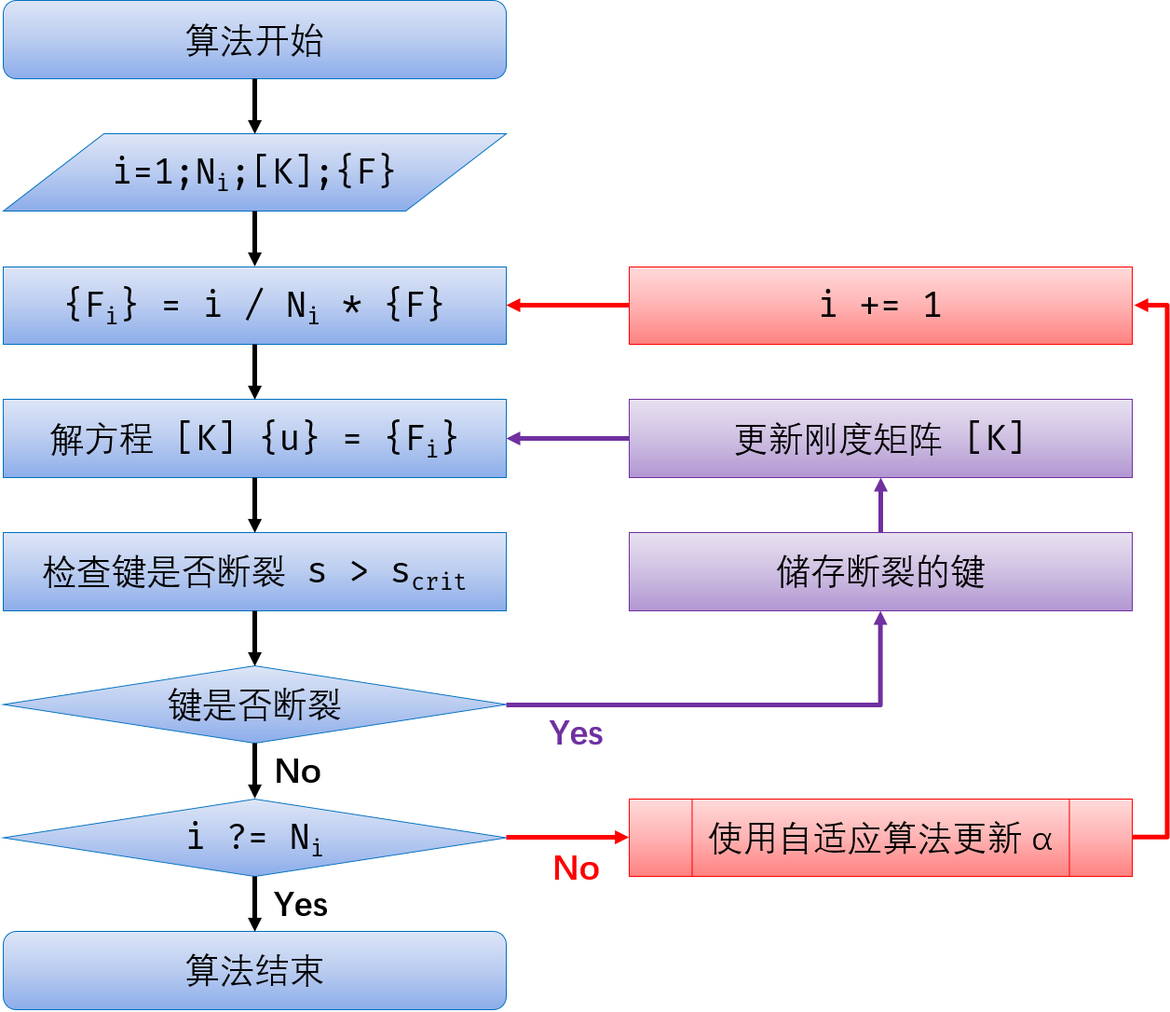
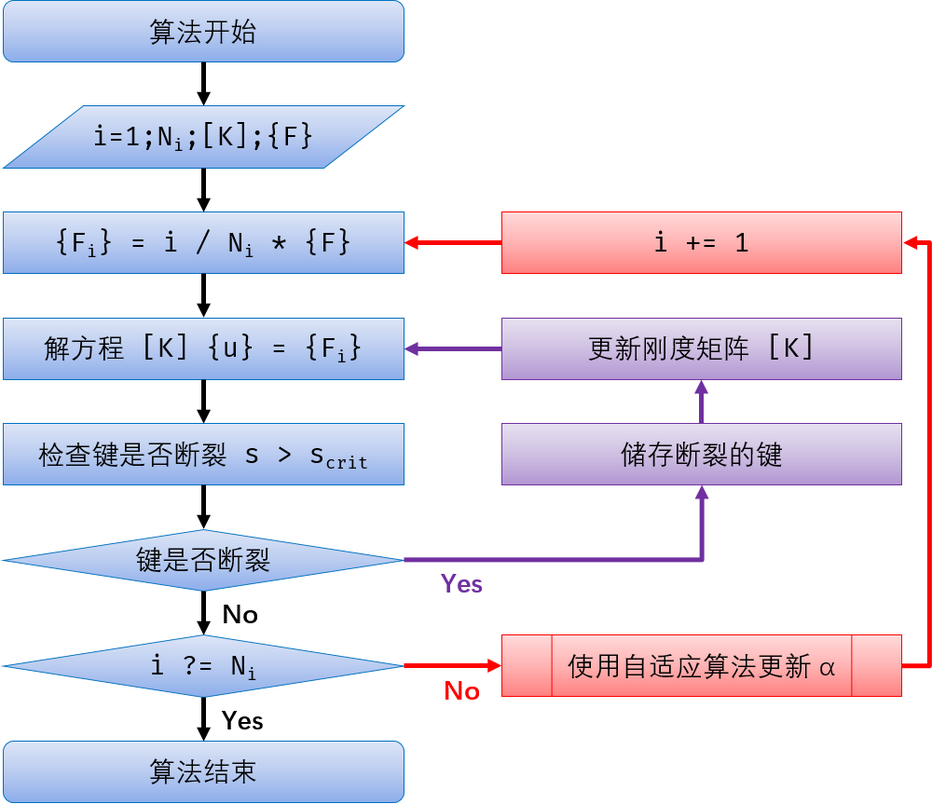
update note03
* resize figure
* fix typo

diff --git a/docs/文章阅读记录-2014-模拟具有预置裂纹的裂纹扩展.html b/docs/文章阅读记录-2014-模拟具有预置裂纹的裂纹扩展.html
@@ -157,10 +157,10 @@
 <h3 id="%E9%94%AE%E6%96%AD%E8%A3%82%E4%B8%8E%E8%80%97%E6%95%A3%E8%83%BD">键断裂与耗散能</h3>
 <p>首先需要定义什么情况下认为键发生了断裂。我们假设我们处理的是一个在某一个形变范围内是理想线弹性的简化模型。即在形变在区间 <span class="katex"><span class="katex-mathml"><math><semantics><mrow><mo>[</mo><mn>0</mn><mo separator="true">,</mo><msub><mi>s</mi><mrow><mi>c</mi><mi>r</mi><mi>i</mi><mi>t</mi></mrow></msub><mo>]</mo></mrow><annotation encoding="application/x-tex">[0, s_{crit}]</annotation></semantics></math></span><span class="katex-html" aria-hidden="true"><span class="base"><span class="strut" style="height:1em;vertical-align:-0.25em;"></span><span class="mopen">[</span><span class="mord">0</span><span class="mpunct">,</span><span class="mspace" style="margin-right:0.16666666666666666em;"></span><span class="mord"><span class="mord mathdefault">s</span><span class="msupsub"><span class="vlist-t vlist-t2"><span class="vlist-r"><span class="vlist" style="height:0.31166399999999994em;"><span style="top:-2.5500000000000003em;margin-left:0em;margin-right:0.05em;"><span class="pstrut" style="height:2.7em;"></span><span class="sizing reset-size6 size3 mtight"><span class="mord mtight"><span class="mord mathdefault mtight">c</span><span class="mord mathdefault mtight" style="margin-right:0.02778em;">r</span><span class="mord mathdefault mtight">i</span><span class="mord mathdefault mtight">t</span></span></span></span></span><span class="vlist-s"></span></span><span class="vlist-r"><span class="vlist" style="height:0.15em;"><span></span></span></span></span></span></span><span class="mclose">]</span></span></span></span> 内部时，我们把键当做一个理想的弹簧；而一旦形变超出了这个区间，我们认为这根键完全断掉，不再起任何作用，而且这个过程是不可逆的。</p>
 <p>即我们定义键的伸长率 <span class="katex"><span class="katex-mathml"><math><semantics><mrow><mi>s</mi><mo>=</mo><mi mathvariant="normal">∥</mi><munder accentunder="true"><mi>η</mi><mo stretchy="true">‾</mo></munder><mi mathvariant="normal">∥</mi><mi mathvariant="normal">/</mi><mi mathvariant="normal">∥</mi><munder accentunder="true"><mi>ξ</mi><mo stretchy="true">‾</mo></munder><mi mathvariant="normal">∥</mi></mrow><annotation encoding="application/x-tex">s = \|\underline{\eta}\|/\|\underline{\xi}\|</annotation></semantics></math></span><span class="katex-html" aria-hidden="true"><span class="base"><span class="strut" style="height:0.43056em;vertical-align:0em;"></span><span class="mord mathdefault">s</span><span class="mspace" style="margin-right:0.2777777777777778em;"></span><span class="mrel">=</span><span class="mspace" style="margin-right:0.2777777777777778em;"></span></span><span class="base"><span class="strut" style="height:1.14444em;vertical-align:-0.39444em;"></span><span class="mord">∥</span><span class="mord underline"><span class="vlist-t vlist-t2"><span class="vlist-r"><span class="vlist" style="height:0.43056em;"><span style="top:-2.64556em;"><span class="pstrut" style="height:3em;"></span><span class="underline-line" style="border-bottom-width:0.04em;"></span></span><span style="top:-3em;"><span class="pstrut" style="height:3em;"></span><span class="mord"><span class="mord mathdefault" style="margin-right:0.03588em;">η</span></span></span></span><span class="vlist-s"></span></span><span class="vlist-r"><span class="vlist" style="height:0.39443999999999996em;"><span></span></span></span></span></span><span class="mord">∥</span><span class="mord">/</span><span class="mord">∥</span><span class="mord underline"><span class="vlist-t vlist-t2"><span class="vlist-r"><span class="vlist" style="height:0.6944399999999998em;"><span style="top:-2.64556em;"><span class="pstrut" style="height:3em;"></span><span class="underline-line" style="border-bottom-width:0.04em;"></span></span><span style="top:-3em;"><span class="pstrut" style="height:3em;"></span><span class="mord"><span class="mord mathdefault" style="margin-right:0.04601em;">ξ</span></span></span></span><span class="vlist-s"></span></span><span class="vlist-r"><span class="vlist" style="height:0.39444em;"><span></span></span></span></span></span><span class="mord">∥</span></span></span></span>，当键受拉的时候，其伸长率为正值。那么结合我们的本构 <span class="katex"><span class="katex-mathml"><math><semantics><mrow><munder accentunder="true"><mi>f</mi><mo stretchy="true">‾</mo></munder><mo>(</mo><munder accentunder="true"><mi>p</mi><mo stretchy="true">‾</mo></munder><mo>→</mo><munder accentunder="true"><mi>x</mi><mo stretchy="true">‾</mo></munder><mo>)</mo><mo>=</mo><mi>c</mi><mo>(</mo><mi mathvariant="normal">∥</mi><munder accentunder="true"><mi>ξ</mi><mo stretchy="true">‾</mo></munder><mi mathvariant="normal">∥</mi><mo>)</mo><mo>⋅</mo><munder accentunder="true"><mi>η</mi><mo stretchy="true">‾</mo></munder></mrow><annotation encoding="application/x-tex">\underline{f}(\underline{p} \rightarrow \underline{x}) = c(\|\underline{\xi}\|)\cdot\underline{\eta}</annotation></semantics></math></span><span class="katex-html" aria-hidden="true"><span class="base"><span class="strut" style="height:1.14444em;vertical-align:-0.39444em;"></span><span class="mord underline"><span class="vlist-t vlist-t2"><span class="vlist-r"><span class="vlist" style="height:0.6944399999999998em;"><span style="top:-2.64556em;"><span class="pstrut" style="height:3em;"></span><span class="underline-line" style="border-bottom-width:0.04em;"></span></span><span style="top:-3em;"><span class="pstrut" style="height:3em;"></span><span class="mord"><span class="mord mathdefault" style="margin-right:0.10764em;">f</span></span></span></span><span class="vlist-s"></span></span><span class="vlist-r"><span class="vlist" style="height:0.39444em;"><span></span></span></span></span></span><span class="mopen">(</span><span class="mord underline"><span class="vlist-t vlist-t2"><span class="vlist-r"><span class="vlist" style="height:0.43056em;"><span style="top:-2.64556em;"><span class="pstrut" style="height:3em;"></span><span class="underline-line" style="border-bottom-width:0.04em;"></span></span><span style="top:-3em;"><span class="pstrut" style="height:3em;"></span><span class="mord"><span class="mord mathdefault">p</span></span></span></span><span class="vlist-s"></span></span><span class="vlist-r"><span class="vlist" style="height:0.39443999999999996em;"><span></span></span></span></span></span><span class="mspace" style="margin-right:0.2777777777777778em;"></span><span class="mrel">→</span><span class="mspace" style="margin-right:0.2777777777777778em;"></span></span><span class="base"><span class="strut" style="height:1em;vertical-align:-0.25em;"></span><span class="mord underline"><span class="vlist-t vlist-t2"><span class="vlist-r"><span class="vlist" style="height:0.43056000000000005em;"><span style="top:-2.84em;"><span class="pstrut" style="height:3em;"></span><span class="underline-line" style="border-bottom-width:0.04em;"></span></span><span style="top:-3em;"><span class="pstrut" style="height:3em;"></span><span class="mord"><span class="mord mathdefault">x</span></span></span></span><span class="vlist-s"></span></span><span class="vlist-r"><span class="vlist" style="height:0.19999999999999996em;"><span></span></span></span></span></span><span class="mclose">)</span><span class="mspace" style="margin-right:0.2777777777777778em;"></span><span class="mrel">=</span><span class="mspace" style="margin-right:0.2777777777777778em;"></span></span><span class="base"><span class="strut" style="height:1.14444em;vertical-align:-0.39444em;"></span><span class="mord mathdefault">c</span><span class="mopen">(</span><span class="mord">∥</span><span class="mord underline"><span class="vlist-t vlist-t2"><span class="vlist-r"><span class="vlist" style="height:0.6944399999999998em;"><span style="top:-2.64556em;"><span class="pstrut" style="height:3em;"></span><span class="underline-line" style="border-bottom-width:0.04em;"></span></span><span style="top:-3em;"><span class="pstrut" style="height:3em;"></span><span class="mord"><span class="mord mathdefault" style="margin-right:0.04601em;">ξ</span></span></span></span><span class="vlist-s"></span></span><span class="vlist-r"><span class="vlist" style="height:0.39444em;"><span></span></span></span></span></span><span class="mord">∥</span><span class="mclose">)</span><span class="mspace" style="margin-right:0.2222222222222222em;"></span><span class="mbin">⋅</span><span class="mspace" style="margin-right:0.2222222222222222em;"></span></span><span class="base"><span class="strut" style="height:0.825em;vertical-align:-0.39443999999999996em;"></span><span class="mord underline"><span class="vlist-t vlist-t2"><span class="vlist-r"><span class="vlist" style="height:0.43056em;"><span style="top:-2.64556em;"><span class="pstrut" style="height:3em;"></span><span class="underline-line" style="border-bottom-width:0.04em;"></span></span><span style="top:-3em;"><span class="pstrut" style="height:3em;"></span><span class="mord"><span class="mord mathdefault" style="margin-right:0.03588em;">η</span></span></span></span><span class="vlist-s"></span></span><span class="vlist-r"><span class="vlist" style="height:0.39443999999999996em;"><span></span></span></span></span></span></span></span></span>，引入微势能 <span class="katex"><span class="katex-mathml"><math><semantics><mrow><mi>w</mi></mrow><annotation encoding="application/x-tex">w</annotation></semantics></math></span><span class="katex-html" aria-hidden="true"><span class="base"><span class="strut" style="height:0.43056em;vertical-align:0em;"></span><span class="mord mathdefault" style="margin-right:0.02691em;">w</span></span></span></span>，即把力表示为微势能对相对位移的导数 <span class="katex"><span class="katex-mathml"><math><semantics><mrow><munder accentunder="true"><mi>f</mi><mo stretchy="true">‾</mo></munder><mo>=</mo><mfrac><mrow><mi mathvariant="normal">∂</mi><mi>w</mi></mrow><mrow><mi mathvariant="normal">∂</mi><munder accentunder="true"><mi>η</mi><mo stretchy="true">‾</mo></munder></mrow></mfrac></mrow><annotation encoding="application/x-tex">\underline{f} = \frac{\partial w}{\partial \underline{\eta}}</annotation></semantics></math></span><span class="katex-html" aria-hidden="true"><span class="base"><span class="strut" style="height:1.0888799999999998em;vertical-align:-0.39444em;"></span><span class="mord underline"><span class="vlist-t vlist-t2"><span class="vlist-r"><span class="vlist" style="height:0.6944399999999998em;"><span style="top:-2.64556em;"><span class="pstrut" style="height:3em;"></span><span class="underline-line" style="border-bottom-width:0.04em;"></span></span><span style="top:-3em;"><span class="pstrut" style="height:3em;"></span><span class="mord"><span class="mord mathdefault" style="margin-right:0.10764em;">f</span></span></span></span><span class="vlist-s"></span></span><span class="vlist-r"><span class="vlist" style="height:0.39444em;"><span></span></span></span></span></span><span class="mspace" style="margin-right:0.2777777777777778em;"></span><span class="mrel">=</span><span class="mspace" style="margin-right:0.2777777777777778em;"></span></span><span class="base"><span class="strut" style="height:1.5327159999999997em;vertical-align:-0.652608em;"></span><span class="mord"><span class="mopen nulldelimiter"></span><span class="mfrac"><span class="vlist-t vlist-t2"><span class="vlist-r"><span class="vlist" style="height:0.8801079999999999em;"><span style="top:-2.6550000000000002em;"><span class="pstrut" style="height:3em;"></span><span class="sizing reset-size6 size3 mtight"><span class="mord mtight"><span class="mord mtight" style="margin-right:0.05556em;">∂</span><span class="mord underline mtight"><span class="vlist-t vlist-t2"><span class="vlist-r"><span class="vlist" style="height:0.43056em;"><span style="top:-2.60956em;"><span class="pstrut" style="height:3em;"></span><span class="underline-line mtight" style="border-bottom-width:0.049em;"></span></span><span style="top:-3em;"><span class="pstrut" style="height:3em;"></span><span class="mord mtight"><span class="mord mathdefault mtight" style="margin-right:0.03588em;">η</span></span></span></span><span class="vlist-s"></span></span><span class="vlist-r"><span class="vlist" style="height:0.43944em;"><span></span></span></span></span></span></span></span></span><span style="top:-3.23em;"><span class="pstrut" style="height:3em;"></span><span class="frac-line" style="border-bottom-width:0.04em;"></span></span><span style="top:-3.394em;"><span class="pstrut" style="height:3em;"></span><span class="sizing reset-size6 size3 mtight"><span class="mord mtight"><span class="mord mtight" style="margin-right:0.05556em;">∂</span><span class="mord mathdefault mtight" style="margin-right:0.02691em;">w</span></span></span></span></span><span class="vlist-s"></span></span><span class="vlist-r"><span class="vlist" style="height:0.652608em;"><span></span></span></span></span></span><span class="mclose nulldelimiter"></span></span></span></span></span>。把上面的公式整理，得到用伸长率来表示微势能的一般式子如下</p>
-<p><span class="katex-display"><span class="katex"><span class="katex-mathml"><math><semantics><mrow><mi>w</mi><mo>=</mo><mo>∫</mo><munder accentunder="true"><mi>f</mi><mo stretchy="true">‾</mo></munder><mrow><mi mathvariant="normal">d</mi><mtext>&NegativeThinSpace;</mtext></mrow><munder accentunder="true"><mi>η</mi><mo stretchy="true">‾</mo></munder><mo>=</mo><mfrac><mn>1</mn><mn>2</mn></mfrac><mi>c</mi><mo>(</mo><mi mathvariant="normal">∥</mi><munder accentunder="true"><mi>ξ</mi><mo stretchy="true">‾</mo></munder><mi mathvariant="normal">∥</mi><mo>)</mo><mo>⋅</mo><msup><munder accentunder="true"><mi>η</mi><mo stretchy="true">‾</mo></munder><mn>2</mn></msup><mo>=</mo><mfrac><mrow><mi>c</mi><mo>(</mo><mi mathvariant="normal">∥</mi><munder accentunder="true"><mi>ξ</mi><mo stretchy="true">‾</mo></munder><mi mathvariant="normal">∥</mi><mo>)</mo></mrow><mn>2</mn></mfrac><mo>⋅</mo><msup><mi>s</mi><mn>2</mn></msup><mo>⋅</mo><msup><munder accentunder="true"><mi>ξ</mi><mo stretchy="true">‾</mo></munder><mn>2</mn></msup></mrow><annotation encoding="application/x-tex">w = \int \underline{f} {\mathrm{d}\!} \underline{\eta}
+<p><span class="katex-display"><span class="katex"><span class="katex-mathml"><math><semantics><mrow><mi>w</mi><mo>=</mo><mo>∫</mo><munder accentunder="true"><mi>f</mi><mo stretchy="true">‾</mo></munder><mrow><mi mathvariant="normal">d</mi><mtext>&NegativeThinSpace;</mtext></mrow><munder accentunder="true"><mi>η</mi><mo stretchy="true">‾</mo></munder><mo>=</mo><mfrac><mn>1</mn><mn>2</mn></mfrac><mi>c</mi><mo>(</mo><mi mathvariant="normal">∥</mi><munder accentunder="true"><mi>ξ</mi><mo stretchy="true">‾</mo></munder><mi mathvariant="normal">∥</mi><mo>)</mo><mo>⋅</mo><msup><munder accentunder="true"><mi>η</mi><mo stretchy="true">‾</mo></munder><mn>2</mn></msup><mo>=</mo><mfrac><mrow><mi>c</mi><mo>(</mo><mi mathvariant="normal">∥</mi><munder accentunder="true"><mi>ξ</mi><mo stretchy="true">‾</mo></munder><mi mathvariant="normal">∥</mi><mo>)</mo></mrow><mn>2</mn></mfrac><mo>⋅</mo><msup><mi>s</mi><mn>2</mn></msup><mo>⋅</mo><mi mathvariant="normal">∥</mi><munder accentunder="true"><mi>ξ</mi><mo stretchy="true">‾</mo></munder><msup><mi mathvariant="normal">∥</mi><mn>2</mn></msup></mrow><annotation encoding="application/x-tex">w = \int \underline{f} {\mathrm{d}\!} \underline{\eta}
   = \frac12 c(\|\underline{\xi}\|)\cdot\underline{\eta}^2
-  = \frac{c(\|\underline{\xi}\|)}{2} \cdot s^2 \cdot\underline{\xi}^2
-</annotation></semantics></math></span><span class="katex-html" aria-hidden="true"><span class="base"><span class="strut" style="height:0.43056em;vertical-align:0em;"></span><span class="mord mathdefault" style="margin-right:0.02691em;">w</span><span class="mspace" style="margin-right:0.2777777777777778em;"></span><span class="mrel">=</span><span class="mspace" style="margin-right:0.2777777777777778em;"></span></span><span class="base"><span class="strut" style="height:2.22225em;vertical-align:-0.86225em;"></span><span class="mop op-symbol large-op" style="margin-right:0.44445em;position:relative;top:-0.0011249999999999316em;">∫</span><span class="mspace" style="margin-right:0.16666666666666666em;"></span><span class="mord underline"><span class="vlist-t vlist-t2"><span class="vlist-r"><span class="vlist" style="height:0.6944399999999998em;"><span style="top:-2.64556em;"><span class="pstrut" style="height:3em;"></span><span class="underline-line" style="border-bottom-width:0.04em;"></span></span><span style="top:-3em;"><span class="pstrut" style="height:3em;"></span><span class="mord"><span class="mord mathdefault" style="margin-right:0.10764em;">f</span></span></span></span><span class="vlist-s"></span></span><span class="vlist-r"><span class="vlist" style="height:0.39444em;"><span></span></span></span></span></span><span class="mord"><span class="mord"><span class="mord mathrm">d</span></span><span class="mspace" style="margin-right:-0.16666666666666666em;"></span></span><span class="mord underline"><span class="vlist-t vlist-t2"><span class="vlist-r"><span class="vlist" style="height:0.43056em;"><span style="top:-2.64556em;"><span class="pstrut" style="height:3em;"></span><span class="underline-line" style="border-bottom-width:0.04em;"></span></span><span style="top:-3em;"><span class="pstrut" style="height:3em;"></span><span class="mord"><span class="mord mathdefault" style="margin-right:0.03588em;">η</span></span></span></span><span class="vlist-s"></span></span><span class="vlist-r"><span class="vlist" style="height:0.39443999999999996em;"><span></span></span></span></span></span><span class="mspace" style="margin-right:0.2777777777777778em;"></span><span class="mrel">=</span><span class="mspace" style="margin-right:0.2777777777777778em;"></span></span><span class="base"><span class="strut" style="height:2.00744em;vertical-align:-0.686em;"></span><span class="mord"><span class="mopen nulldelimiter"></span><span class="mfrac"><span class="vlist-t vlist-t2"><span class="vlist-r"><span class="vlist" style="height:1.32144em;"><span style="top:-2.314em;"><span class="pstrut" style="height:3em;"></span><span class="mord">2</span></span><span style="top:-3.23em;"><span class="pstrut" style="height:3em;"></span><span class="frac-line" style="border-bottom-width:0.04em;"></span></span><span style="top:-3.677em;"><span class="pstrut" style="height:3em;"></span><span class="mord">1</span></span></span><span class="vlist-s"></span></span><span class="vlist-r"><span class="vlist" style="height:0.686em;"><span></span></span></span></span></span><span class="mclose nulldelimiter"></span></span><span class="mord mathdefault">c</span><span class="mopen">(</span><span class="mord">∥</span><span class="mord underline"><span class="vlist-t vlist-t2"><span class="vlist-r"><span class="vlist" style="height:0.6944399999999998em;"><span style="top:-2.64556em;"><span class="pstrut" style="height:3em;"></span><span class="underline-line" style="border-bottom-width:0.04em;"></span></span><span style="top:-3em;"><span class="pstrut" style="height:3em;"></span><span class="mord"><span class="mord mathdefault" style="margin-right:0.04601em;">ξ</span></span></span></span><span class="vlist-s"></span></span><span class="vlist-r"><span class="vlist" style="height:0.39444em;"><span></span></span></span></span></span><span class="mord">∥</span><span class="mclose">)</span><span class="mspace" style="margin-right:0.2222222222222222em;"></span><span class="mbin">⋅</span><span class="mspace" style="margin-right:0.2222222222222222em;"></span></span><span class="base"><span class="strut" style="height:1.2585479999999998em;vertical-align:-0.39443999999999996em;"></span><span class="mord"><span class="mord underline"><span class="vlist-t vlist-t2"><span class="vlist-r"><span class="vlist" style="height:0.43056em;"><span style="top:-2.64556em;"><span class="pstrut" style="height:3em;"></span><span class="underline-line" style="border-bottom-width:0.04em;"></span></span><span style="top:-3em;"><span class="pstrut" style="height:3em;"></span><span class="mord"><span class="mord mathdefault" style="margin-right:0.03588em;">η</span></span></span></span><span class="vlist-s"></span></span><span class="vlist-r"><span class="vlist" style="height:0.39443999999999996em;"><span></span></span></span></span></span><span class="msupsub"><span class="vlist-t"><span class="vlist-r"><span class="vlist" style="height:0.8641079999999999em;"><span style="top:-3.113em;margin-right:0.05em;"><span class="pstrut" style="height:2.7em;"></span><span class="sizing reset-size6 size3 mtight"><span class="mord mtight">2</span></span></span></span></span></span></span></span><span class="mspace" style="margin-right:0.2777777777777778em;"></span><span class="mrel">=</span><span class="mspace" style="margin-right:0.2777777777777778em;"></span></span><span class="base"><span class="strut" style="height:2.22044em;vertical-align:-0.686em;"></span><span class="mord"><span class="mopen nulldelimiter"></span><span class="mfrac"><span class="vlist-t vlist-t2"><span class="vlist-r"><span class="vlist" style="height:1.53444em;"><span style="top:-2.314em;"><span class="pstrut" style="height:3em;"></span><span class="mord"><span class="mord">2</span></span></span><span style="top:-3.23em;"><span class="pstrut" style="height:3em;"></span><span class="frac-line" style="border-bottom-width:0.04em;"></span></span><span style="top:-3.78444em;"><span class="pstrut" style="height:3em;"></span><span class="mord"><span class="mord mathdefault">c</span><span class="mopen">(</span><span class="mord">∥</span><span class="mord underline"><span class="vlist-t vlist-t2"><span class="vlist-r"><span class="vlist" style="height:0.6944399999999998em;"><span style="top:-2.64556em;"><span class="pstrut" style="height:3em;"></span><span class="underline-line" style="border-bottom-width:0.04em;"></span></span><span style="top:-3em;"><span class="pstrut" style="height:3em;"></span><span class="mord"><span class="mord mathdefault" style="margin-right:0.04601em;">ξ</span></span></span></span><span class="vlist-s"></span></span><span class="vlist-r"><span class="vlist" style="height:0.39444em;"><span></span></span></span></span></span><span class="mord">∥</span><span class="mclose">)</span></span></span></span><span class="vlist-s"></span></span><span class="vlist-r"><span class="vlist" style="height:0.686em;"><span></span></span></span></span></span><span class="mclose nulldelimiter"></span></span><span class="mspace" style="margin-right:0.2222222222222222em;"></span><span class="mbin">⋅</span><span class="mspace" style="margin-right:0.2222222222222222em;"></span></span><span class="base"><span class="strut" style="height:0.8641079999999999em;vertical-align:0em;"></span><span class="mord"><span class="mord mathdefault">s</span><span class="msupsub"><span class="vlist-t"><span class="vlist-r"><span class="vlist" style="height:0.8641079999999999em;"><span style="top:-3.113em;margin-right:0.05em;"><span class="pstrut" style="height:2.7em;"></span><span class="sizing reset-size6 size3 mtight"><span class="mord mtight">2</span></span></span></span></span></span></span></span><span class="mspace" style="margin-right:0.2222222222222222em;"></span><span class="mbin">⋅</span><span class="mspace" style="margin-right:0.2222222222222222em;"></span></span><span class="base"><span class="strut" style="height:1.2928879999999998em;vertical-align:-0.39444em;"></span><span class="mord"><span class="mord underline"><span class="vlist-t vlist-t2"><span class="vlist-r"><span class="vlist" style="height:0.6944399999999998em;"><span style="top:-2.64556em;"><span class="pstrut" style="height:3em;"></span><span class="underline-line" style="border-bottom-width:0.04em;"></span></span><span style="top:-3em;"><span class="pstrut" style="height:3em;"></span><span class="mord"><span class="mord mathdefault" style="margin-right:0.04601em;">ξ</span></span></span></span><span class="vlist-s"></span></span><span class="vlist-r"><span class="vlist" style="height:0.39444em;"><span></span></span></span></span></span><span class="msupsub"><span class="vlist-t"><span class="vlist-r"><span class="vlist" style="height:0.8984479999999998em;"><span style="top:-3.14734em;margin-right:0.05em;"><span class="pstrut" style="height:2.7em;"></span><span class="sizing reset-size6 size3 mtight"><span class="mord mtight">2</span></span></span></span></span></span></span></span></span></span></span></span></p>
+  = \frac{c(\|\underline{\xi}\|)}{2} \cdot s^2 \cdot\|\underline{\xi}\|^2
+</annotation></semantics></math></span><span class="katex-html" aria-hidden="true"><span class="base"><span class="strut" style="height:0.43056em;vertical-align:0em;"></span><span class="mord mathdefault" style="margin-right:0.02691em;">w</span><span class="mspace" style="margin-right:0.2777777777777778em;"></span><span class="mrel">=</span><span class="mspace" style="margin-right:0.2777777777777778em;"></span></span><span class="base"><span class="strut" style="height:2.22225em;vertical-align:-0.86225em;"></span><span class="mop op-symbol large-op" style="margin-right:0.44445em;position:relative;top:-0.0011249999999999316em;">∫</span><span class="mspace" style="margin-right:0.16666666666666666em;"></span><span class="mord underline"><span class="vlist-t vlist-t2"><span class="vlist-r"><span class="vlist" style="height:0.6944399999999998em;"><span style="top:-2.64556em;"><span class="pstrut" style="height:3em;"></span><span class="underline-line" style="border-bottom-width:0.04em;"></span></span><span style="top:-3em;"><span class="pstrut" style="height:3em;"></span><span class="mord"><span class="mord mathdefault" style="margin-right:0.10764em;">f</span></span></span></span><span class="vlist-s"></span></span><span class="vlist-r"><span class="vlist" style="height:0.39444em;"><span></span></span></span></span></span><span class="mord"><span class="mord"><span class="mord mathrm">d</span></span><span class="mspace" style="margin-right:-0.16666666666666666em;"></span></span><span class="mord underline"><span class="vlist-t vlist-t2"><span class="vlist-r"><span class="vlist" style="height:0.43056em;"><span style="top:-2.64556em;"><span class="pstrut" style="height:3em;"></span><span class="underline-line" style="border-bottom-width:0.04em;"></span></span><span style="top:-3em;"><span class="pstrut" style="height:3em;"></span><span class="mord"><span class="mord mathdefault" style="margin-right:0.03588em;">η</span></span></span></span><span class="vlist-s"></span></span><span class="vlist-r"><span class="vlist" style="height:0.39443999999999996em;"><span></span></span></span></span></span><span class="mspace" style="margin-right:0.2777777777777778em;"></span><span class="mrel">=</span><span class="mspace" style="margin-right:0.2777777777777778em;"></span></span><span class="base"><span class="strut" style="height:2.00744em;vertical-align:-0.686em;"></span><span class="mord"><span class="mopen nulldelimiter"></span><span class="mfrac"><span class="vlist-t vlist-t2"><span class="vlist-r"><span class="vlist" style="height:1.32144em;"><span style="top:-2.314em;"><span class="pstrut" style="height:3em;"></span><span class="mord">2</span></span><span style="top:-3.23em;"><span class="pstrut" style="height:3em;"></span><span class="frac-line" style="border-bottom-width:0.04em;"></span></span><span style="top:-3.677em;"><span class="pstrut" style="height:3em;"></span><span class="mord">1</span></span></span><span class="vlist-s"></span></span><span class="vlist-r"><span class="vlist" style="height:0.686em;"><span></span></span></span></span></span><span class="mclose nulldelimiter"></span></span><span class="mord mathdefault">c</span><span class="mopen">(</span><span class="mord">∥</span><span class="mord underline"><span class="vlist-t vlist-t2"><span class="vlist-r"><span class="vlist" style="height:0.6944399999999998em;"><span style="top:-2.64556em;"><span class="pstrut" style="height:3em;"></span><span class="underline-line" style="border-bottom-width:0.04em;"></span></span><span style="top:-3em;"><span class="pstrut" style="height:3em;"></span><span class="mord"><span class="mord mathdefault" style="margin-right:0.04601em;">ξ</span></span></span></span><span class="vlist-s"></span></span><span class="vlist-r"><span class="vlist" style="height:0.39444em;"><span></span></span></span></span></span><span class="mord">∥</span><span class="mclose">)</span><span class="mspace" style="margin-right:0.2222222222222222em;"></span><span class="mbin">⋅</span><span class="mspace" style="margin-right:0.2222222222222222em;"></span></span><span class="base"><span class="strut" style="height:1.2585479999999998em;vertical-align:-0.39443999999999996em;"></span><span class="mord"><span class="mord underline"><span class="vlist-t vlist-t2"><span class="vlist-r"><span class="vlist" style="height:0.43056em;"><span style="top:-2.64556em;"><span class="pstrut" style="height:3em;"></span><span class="underline-line" style="border-bottom-width:0.04em;"></span></span><span style="top:-3em;"><span class="pstrut" style="height:3em;"></span><span class="mord"><span class="mord mathdefault" style="margin-right:0.03588em;">η</span></span></span></span><span class="vlist-s"></span></span><span class="vlist-r"><span class="vlist" style="height:0.39443999999999996em;"><span></span></span></span></span></span><span class="msupsub"><span class="vlist-t"><span class="vlist-r"><span class="vlist" style="height:0.8641079999999999em;"><span style="top:-3.113em;margin-right:0.05em;"><span class="pstrut" style="height:2.7em;"></span><span class="sizing reset-size6 size3 mtight"><span class="mord mtight">2</span></span></span></span></span></span></span></span><span class="mspace" style="margin-right:0.2777777777777778em;"></span><span class="mrel">=</span><span class="mspace" style="margin-right:0.2777777777777778em;"></span></span><span class="base"><span class="strut" style="height:2.22044em;vertical-align:-0.686em;"></span><span class="mord"><span class="mopen nulldelimiter"></span><span class="mfrac"><span class="vlist-t vlist-t2"><span class="vlist-r"><span class="vlist" style="height:1.53444em;"><span style="top:-2.314em;"><span class="pstrut" style="height:3em;"></span><span class="mord"><span class="mord">2</span></span></span><span style="top:-3.23em;"><span class="pstrut" style="height:3em;"></span><span class="frac-line" style="border-bottom-width:0.04em;"></span></span><span style="top:-3.78444em;"><span class="pstrut" style="height:3em;"></span><span class="mord"><span class="mord mathdefault">c</span><span class="mopen">(</span><span class="mord">∥</span><span class="mord underline"><span class="vlist-t vlist-t2"><span class="vlist-r"><span class="vlist" style="height:0.6944399999999998em;"><span style="top:-2.64556em;"><span class="pstrut" style="height:3em;"></span><span class="underline-line" style="border-bottom-width:0.04em;"></span></span><span style="top:-3em;"><span class="pstrut" style="height:3em;"></span><span class="mord"><span class="mord mathdefault" style="margin-right:0.04601em;">ξ</span></span></span></span><span class="vlist-s"></span></span><span class="vlist-r"><span class="vlist" style="height:0.39444em;"><span></span></span></span></span></span><span class="mord">∥</span><span class="mclose">)</span></span></span></span><span class="vlist-s"></span></span><span class="vlist-r"><span class="vlist" style="height:0.686em;"><span></span></span></span></span></span><span class="mclose nulldelimiter"></span></span><span class="mspace" style="margin-right:0.2222222222222222em;"></span><span class="mbin">⋅</span><span class="mspace" style="margin-right:0.2222222222222222em;"></span></span><span class="base"><span class="strut" style="height:0.8641079999999999em;vertical-align:0em;"></span><span class="mord"><span class="mord mathdefault">s</span><span class="msupsub"><span class="vlist-t"><span class="vlist-r"><span class="vlist" style="height:0.8641079999999999em;"><span style="top:-3.113em;margin-right:0.05em;"><span class="pstrut" style="height:2.7em;"></span><span class="sizing reset-size6 size3 mtight"><span class="mord mtight">2</span></span></span></span></span></span></span></span><span class="mspace" style="margin-right:0.2222222222222222em;"></span><span class="mbin">⋅</span><span class="mspace" style="margin-right:0.2222222222222222em;"></span></span><span class="base"><span class="strut" style="height:1.2585479999999998em;vertical-align:-0.39444em;"></span><span class="mord">∥</span><span class="mord underline"><span class="vlist-t vlist-t2"><span class="vlist-r"><span class="vlist" style="height:0.6944399999999998em;"><span style="top:-2.64556em;"><span class="pstrut" style="height:3em;"></span><span class="underline-line" style="border-bottom-width:0.04em;"></span></span><span style="top:-3em;"><span class="pstrut" style="height:3em;"></span><span class="mord"><span class="mord mathdefault" style="margin-right:0.04601em;">ξ</span></span></span></span><span class="vlist-s"></span></span><span class="vlist-r"><span class="vlist" style="height:0.39444em;"><span></span></span></span></span></span><span class="mord"><span class="mord">∥</span><span class="msupsub"><span class="vlist-t"><span class="vlist-r"><span class="vlist" style="height:0.8641079999999999em;"><span style="top:-3.113em;margin-right:0.05em;"><span class="pstrut" style="height:2.7em;"></span><span class="sizing reset-size6 size3 mtight"><span class="mord mtight">2</span></span></span></span></span></span></span></span></span></span></span></span></p>
 <p>在确定了键的微势能之后，如果材料发生了断裂，则相当于对穿过断裂面的任意两个互在对方近场邻域（Horizon）的物质点之间的键，其伸长率达到了极限 <span class="katex"><span class="katex-mathml"><math><semantics><mrow><msub><mi>s</mi><mrow><mi>c</mi><mi>r</mi><mi>i</mi><mi>t</mi></mrow></msub></mrow><annotation encoding="application/x-tex">s_{crit}</annotation></semantics></math></span><span class="katex-html" aria-hidden="true"><span class="base"><span class="strut" style="height:0.58056em;vertical-align:-0.15em;"></span><span class="mord"><span class="mord mathdefault">s</span><span class="msupsub"><span class="vlist-t vlist-t2"><span class="vlist-r"><span class="vlist" style="height:0.31166399999999994em;"><span style="top:-2.5500000000000003em;margin-left:0em;margin-right:0.05em;"><span class="pstrut" style="height:2.7em;"></span><span class="sizing reset-size6 size3 mtight"><span class="mord mtight"><span class="mord mathdefault mtight">c</span><span class="mord mathdefault mtight" style="margin-right:0.02778em;">r</span><span class="mord mathdefault mtight">i</span><span class="mord mathdefault mtight">t</span></span></span></span></span><span class="vlist-s"></span></span><span class="vlist-r"><span class="vlist" style="height:0.15em;"><span></span></span></span></span></span></span></span></span></span>，从而发生了键的断裂，如图所示</p>
 <p align="center"><img src="https://polossk.github.io/imgs/2019/03/note03-figure-01.png" alt="Alt Fracture surface" title="Fracture surface"></p>
 <p>那么穿过单位断裂面所有键所需要释放的能量 <span class="katex"><span class="katex-mathml"><math><semantics><mrow><msub><mi>G</mi><mi>c</mi></msub></mrow><annotation encoding="application/x-tex">G_c</annotation></semantics></math></span><span class="katex-html" aria-hidden="true"><span class="base"><span class="strut" style="height:0.83333em;vertical-align:-0.15em;"></span><span class="mord"><span class="mord mathdefault">G</span><span class="msupsub"><span class="vlist-t vlist-t2"><span class="vlist-r"><span class="vlist" style="height:0.151392em;"><span style="top:-2.5500000000000003em;margin-left:0em;margin-right:0.05em;"><span class="pstrut" style="height:2.7em;"></span><span class="sizing reset-size6 size3 mtight"><span class="mord mathdefault mtight">c</span></span></span></span><span class="vlist-s"></span></span><span class="vlist-r"><span class="vlist" style="height:0.15em;"><span></span></span></span></span></span></span></span></span></span> 与伸长率极限 <span class="katex"><span class="katex-mathml"><math><semantics><mrow><msub><mi>s</mi><mrow><mi>c</mi><mi>r</mi><mi>i</mi><mi>t</mi></mrow></msub></mrow><annotation encoding="application/x-tex">s_{crit}</annotation></semantics></math></span><span class="katex-html" aria-hidden="true"><span class="base"><span class="strut" style="height:0.58056em;vertical-align:-0.15em;"></span><span class="mord"><span class="mord mathdefault">s</span><span class="msupsub"><span class="vlist-t vlist-t2"><span class="vlist-r"><span class="vlist" style="height:0.31166399999999994em;"><span style="top:-2.5500000000000003em;margin-left:0em;margin-right:0.05em;"><span class="pstrut" style="height:2.7em;"></span><span class="sizing reset-size6 size3 mtight"><span class="mord mtight"><span class="mord mathdefault mtight">c</span><span class="mord mathdefault mtight" style="margin-right:0.02778em;">r</span><span class="mord mathdefault mtight">i</span><span class="mord mathdefault mtight">t</span></span></span></span></span><span class="vlist-s"></span></span><span class="vlist-r"><span class="vlist" style="height:0.15em;"><span></span></span></span></span></span></span></span></span></span> 的关系为</p>

diff --git a/notebooks/文章阅读记录-2014-模拟具有预置裂纹的裂纹扩展.md b/notebooks/文章阅读记录-2014-模拟具有预置裂纹的裂纹扩展.md
@@ -170,7 +170,7 @@ $$ \begin{aligned}
 $$
 w = \int \underline{f} {\mathrm{d}\!} \underline{\eta}
   = \frac12 c(\|\underline{\xi}\|)\cdot\underline{\eta}^2
-  = \frac{c(\|\underline{\xi}\|)}{2} \cdot s^2 \cdot\underline{\xi}^2
+  = \frac{c(\|\underline{\xi}\|)}{2} \cdot s^2 \cdot\|\underline{\xi}\|^2
 $$
 
 在确定了键的微势能之后，如果材料发生了断裂，则相当于对穿过断裂面的任意两个互在对方近场邻域（Horizon）的物质点之间的键，其伸长率达到了极限 $s_{crit}$，从而发生了键的断裂，如图所示
